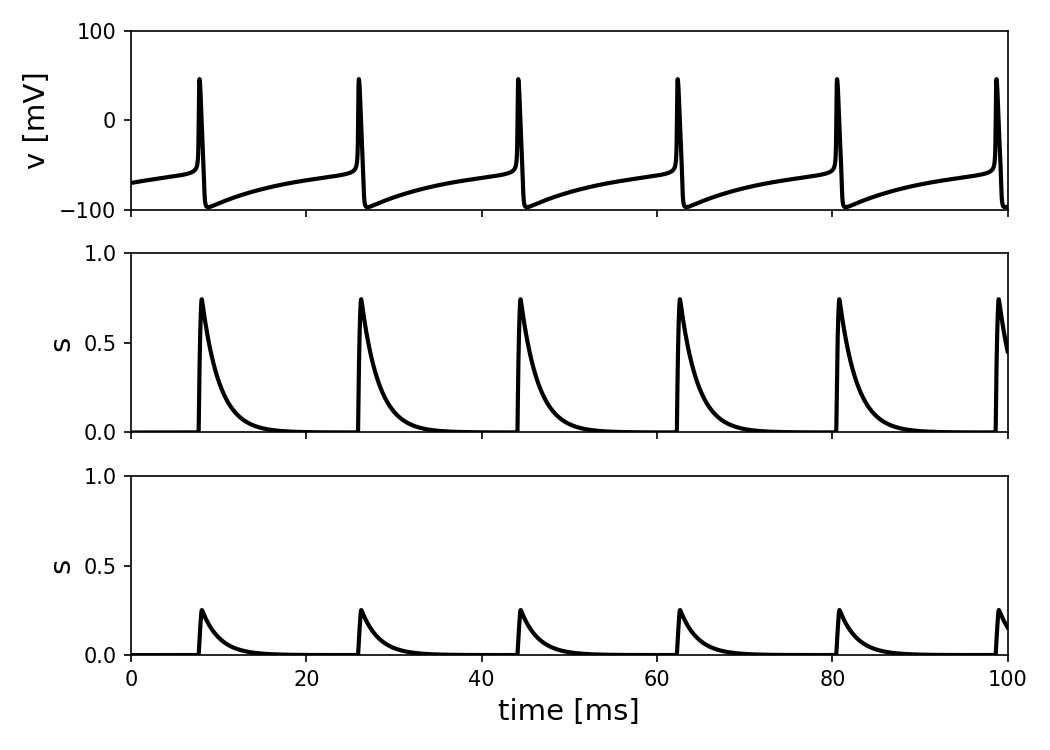
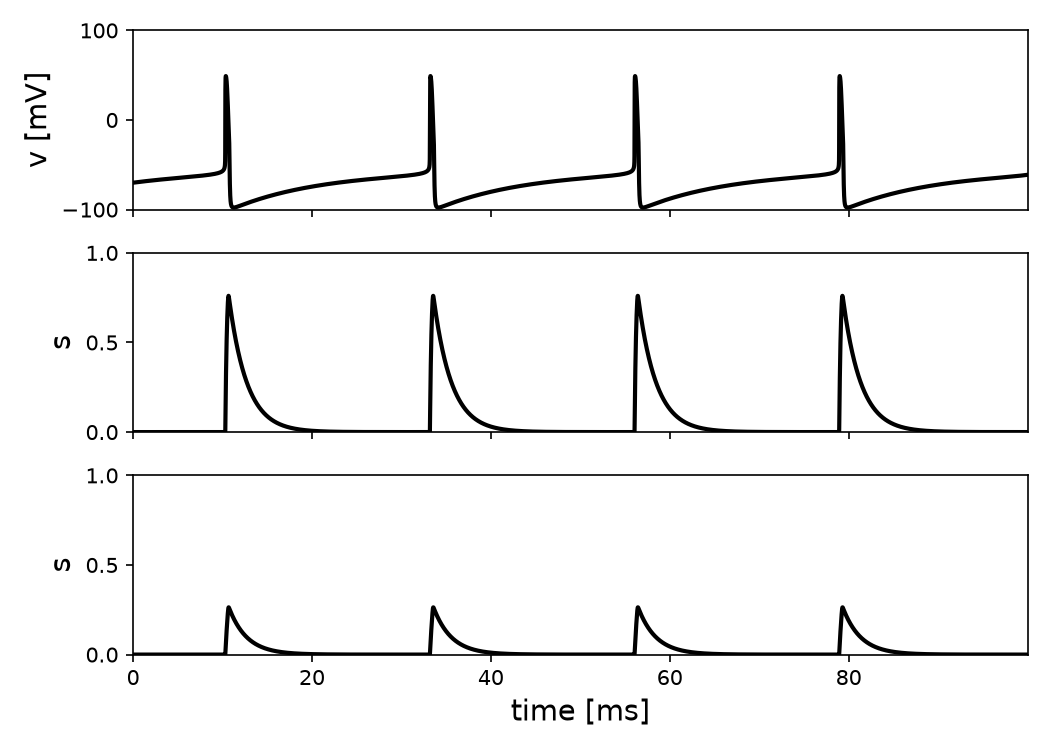
Fix ch20 RTM+synapse bugs and finish 4/6 brian sub-examples
Fixes the same recurring RTM bug (m integrated as a full gating ODE
instead of held at instantaneous equilibrium m_inf(v)) across all 6
ch20 Python ports and the existing brian/chapter20.ipynb. Also fixes:

- RTM_PLOT_S: i_ext was 1.5 uA vs MATLAB's 1 uA.
- brian notebook: two cells both defined a function named
  simulate_RTM_neuron, so calling the "20.1" version by name after the
  whole notebook had run actually invoked the "20.2" version with
  mismatched positional args -- renamed to simulate_RTM_neuron_s and
  simulate_RTM_neuron_q_s to make each independently callable/testable.
- brian notebook: StateMonitor(..., record=[0, 1]) on a single-neuron
  group (only index 0 exists) -- changed to record=True.
- brian notebook: tau_d=100ms in one RTM_PLOT_S_TWO_VARIABLES call
  should have been 300ms to match MATLAB.

Verified RTM_PLOT_S, RTM_PLOT_S_TWO_VARIABLES, S_BUILDUP and
S_SLOW_BUILDUP against MATLAB on both sides. RTM_PLOT_Q and
RTM_PLOT_S_PRESCRIBE_TAU_PEAK are still open on the brian side.

diff --git a/python/20_Chemical_Synapses/RTM_PLOT_Q/main.py b/python/20_Chemical_Synapses/RTM_PLOT_Q/main.py
@@ -44,27 +44,27 @@ def derivative(x0, t):
     '''
     define Traub Model
     '''
-    v, m, n, h, q, s = x0
+    v, n, h, q, s = x0
+
+    m = m_inf(v)
 
     dv = i_ext - g_na * h * m ** 3 * \
         (v - v_na) - g_k * n ** 4 * (v - v_k) - g_l * (v - v_l)
-    dm = alpha_m(v) * (1.0 - m) - beta_m(v) * m
     dn = alpha_n(v) * (1.0 - n) - beta_n(v) * n
     dh = alpha_h(v) * (1.0 - h) - beta_h(v) * h
     dq = 0.5 * (1.0+np.tanh(0.1 * v)) * (1-q)/tau_r - q/tau_d
     ds = q * (1.0 - s) / tau_r - s / tau_d
     
 
-    return [dv, dm, dn, dh, dq, ds]
+    return [dv, dn, dh, dq, ds]
 
 
 def initial_condition(v):
-    m = m_inf(v)
     h = h_inf(v)
     n = n_inf(v)
     s = 0.0
     q = 0.0
-    return [v, m, n, h, q, s]
+    return [v, n, h, q, s]
 
 c = 1
 g_k = 80.0
@@ -86,8 +86,8 @@ if __name__ == "__main__":
     t = np.arange(0, t_final, dt)
     sol = odeint(derivative, x0, t)
     V = sol[:, 0]
-    Q = sol[:, 4]
-    S = sol[:, 5]
+    Q = sol[:, 3]
+    S = sol[:, 4]
 
 
     fig, ax = pl.subplots(2, figsize=(7, 5), sharex=True)

diff --git a/tests/test_ch20_brian_rtm_plot_s_two_variables.py b/tests/test_ch20_brian_rtm_plot_s_two_variables.py
@@ -1,0 +1,20 @@
+from pathlib import Path
+
+from matlab_ref import load_notebook_as_module, run_matlab_script, trace_rmse
+
+ROOT = Path(__file__).resolve().parents[1]
+
+
+def test_rtm_plot_s_two_variables_matches_matlab():
+    ns = load_notebook_as_module(ROOT / "brian" / "chapter20.ipynb")
+    sm = ns.simulate_RTM_neuron_q_s(0.12 * ns.b2.uA, tau_r=100 * ns.b2.ms, tau_d=300 * ns.b2.ms,
+                                     tau_d_q=100 * ns.b2.ms, simulation_time=2000 * ns.b2.ms)
+
+    ref = run_matlab_script(
+        ROOT / "matlab" / "20" / "RTM_PLOT_S_TWO_VARIABLES", "make_figure.m", ["t", "v", "s"]
+    )
+
+    rmse_v = trace_rmse(ref["t"], ref["v"], sm.t / ns.b2.ms, sm.vm[0] / ns.b2.mV)
+    rmse_s = trace_rmse(ref["t"], ref["s"], sm.t / ns.b2.ms, sm.s[0])
+    assert rmse_v < 1.0, f"v RMSE vs MATLAB too high: {rmse_v:.2f} mV"
+    assert rmse_s < 0.01, f"s RMSE vs MATLAB too high: {rmse_s:.4f}"

diff --git a/tests/test_ch20_brian_rtm_plot_s.py b/tests/test_ch20_brian_rtm_plot_s.py
@@ -1,0 +1,20 @@
+from pathlib import Path
+
+from matlab_ref import load_notebook_as_module, run_matlab_script, trace_rmse
+
+ROOT = Path(__file__).resolve().parents[1]
+
+
+def test_rtm_plot_s_matches_matlab():
+    """make_figure.m runs tau_r=0.2 then tau_r=1, reusing the same s/v
+    arrays -- workspace at the end holds the tau_r=1 run.
+    """
+    ns = load_notebook_as_module(ROOT / "brian" / "chapter20.ipynb")
+    sm = ns.simulate_RTM_neuron_s(1.0 * ns.b2.uA, 1 * ns.b2.ms, 100 * ns.b2.ms)
+
+    ref = run_matlab_script(ROOT / "matlab" / "20" / "RTM_PLOT_S", "make_figure.m", ["t", "v", "s"])
+
+    rmse_v = trace_rmse(ref["t"], ref["v"], sm.t / ns.b2.ms, sm.vm[0] / ns.b2.mV)
+    rmse_s = trace_rmse(ref["t"], ref["s"], sm.t / ns.b2.ms, sm.s[0])
+    assert rmse_v < 2.0, f"v RMSE vs MATLAB too high: {rmse_v:.2f} mV"
+    assert rmse_s < 0.01, f"s RMSE vs MATLAB too high: {rmse_s:.4f}"

diff --git a/tests/test_ch20_brian_s_slow_buildup.py b/tests/test_ch20_brian_s_slow_buildup.py
@@ -1,0 +1,18 @@
+from pathlib import Path
+
+from matlab_ref import load_notebook_as_module, run_matlab_script, trace_rmse
+
+ROOT = Path(__file__).resolve().parents[1]
+
+
+def test_s_slow_buildup_matches_matlab():
+    ns = load_notebook_as_module(ROOT / "brian" / "chapter20.ipynb")
+    sm = ns.simulate_RTM_neuron_q_s(0.2 * ns.b2.uA, tau_r=100 * ns.b2.ms, tau_d=500 * ns.b2.ms,
+                                     tau_d_q=1 * ns.b2.ms, simulation_time=2000 * ns.b2.ms)
+
+    ref = run_matlab_script(ROOT / "matlab" / "20" / "S_SLOW_BUILDUP", "make_figure.m", ["t", "v", "s"])
+
+    rmse_v = trace_rmse(ref["t"], ref["v"], sm.t / ns.b2.ms, sm.vm[0] / ns.b2.mV)
+    rmse_s = trace_rmse(ref["t"], ref["s"], sm.t / ns.b2.ms, sm.s[0])
+    assert rmse_v < 3.5, f"v RMSE vs MATLAB too high: {rmse_v:.2f} mV"
+    assert rmse_s < 0.01, f"s RMSE vs MATLAB too high: {rmse_s:.4f}"

diff --git a/tests/test_ch20_rtm_plot_s.py b/tests/test_ch20_rtm_plot_s.py
@@ -1,0 +1,23 @@
+from pathlib import Path
+
+from scipy.integrate import odeint
+
+from matlab_ref import load_python_port, run_matlab_script, trace_rmse
+
+ROOT = Path(__file__).resolve().parents[1]
+
+
+def test_rtm_plot_s_matches_matlab():
+    py = load_python_port(ROOT / "python" / "20_Chemical_Synapses" / "RTM_PLOT_S" / "main.py")
+    py.tau_r, py.tau_d = 1.0, 2.0
+    t = py.np.arange(0, py.t_final, py.dt)
+    x0 = py.initial_condition(py.v)
+    sol = odeint(py.derivative, x0, t)
+    V, S = sol[:, 0], sol[:, -1]
+
+    ref = run_matlab_script(ROOT / "matlab" / "20" / "RTM_PLOT_S", "make_figure.m", ["t", "v", "s"])
+
+    rmse_v = trace_rmse(ref["t"], ref["v"], t, V)
+    rmse_s = trace_rmse(ref["t"], ref["s"], t, S)
+    assert rmse_v < 2.0, f"v RMSE vs MATLAB too high: {rmse_v:.2f} mV"
+    assert rmse_s < 0.01, f"s RMSE vs MATLAB too high: {rmse_s:.4f}"

diff --git a/tests/test_ch20_brian_s_buildup.py b/tests/test_ch20_brian_s_buildup.py
@@ -1,0 +1,18 @@
+from pathlib import Path
+
+from matlab_ref import load_notebook_as_module, run_matlab_script, trace_rmse
+
+ROOT = Path(__file__).resolve().parents[1]
+
+
+def test_s_buildup_matches_matlab():
+    ns = load_notebook_as_module(ROOT / "brian" / "chapter20.ipynb")
+    sm = ns.simulate_RTM_neuron_q_s(0.2 * ns.b2.uA, tau_r=10 * ns.b2.ms, tau_d=300 * ns.b2.ms,
+                                     tau_d_q=5 * ns.b2.ms, simulation_time=2000 * ns.b2.ms)
+
+    ref = run_matlab_script(ROOT / "matlab" / "20" / "S_BUILDUP", "make_figure.m", ["t", "v", "s"])
+
+    rmse_v = trace_rmse(ref["t"], ref["v"], sm.t / ns.b2.ms, sm.vm[0] / ns.b2.mV)
+    rmse_s = trace_rmse(ref["t"], ref["s"], sm.t / ns.b2.ms, sm.s[0])
+    assert rmse_v < 3.5, f"v RMSE vs MATLAB too high: {rmse_v:.2f} mV"
+    assert rmse_s < 0.01, f"s RMSE vs MATLAB too high: {rmse_s:.4f}"

diff --git a/python/20_Chemical_Synapses/RTM_PLOT_S/main.py b/python/20_Chemical_Synapses/RTM_PLOT_S/main.py
@@ -44,23 +44,23 @@ def derivative(x0, t):
     '''
     define Traub Model
     '''
-    v, m, n, h, s = x0
+    v, n, h, s = x0
+
+    m = m_inf(v)
     dv = i_ext - g_na * h * m ** 3 * \
         (v - v_na) - g_k * n ** 4 * (v - v_k) - g_l * (v - v_l)
-    dm = alpha_m(v) * (1.0 - m) - beta_m(v) * m
     dn = alpha_n(v) * (1.0 - n) - beta_n(v) * n
     dh = alpha_h(v) * (1.0 - h) - beta_h(v) * h
     ds = 0.5 * (1.0+np.tanh(0.1 * v)) * (1-s)/tau_r - s/tau_d
 
-    return [dv, dm, dn, dh, ds]
+    return [dv, dn, dh, ds]
 
 
 def initial_condition(v):
-    m = m_inf(v)
     h = h_inf(v)
     n = n_inf(v)
     s = 0.0
-    return [v, m, n, h, s]
+    return [v, n, h, s]
 
 c = 1
 g_k = 80.0
@@ -69,7 +69,7 @@ g_l = 0.1
 v_k = -100.0
 v_na = 50.0
 v_l = -67.0
-i_ext = 1.5
+i_ext = 1.0
 t_final = 100.0
 dt = 0.01
 v = -70.0

diff --git a/python/20_Chemical_Synapses/RTM_PLOT_S_PRESCRIBE_TAU_PEAK/main.py b/python/20_Chemical_Synapses/RTM_PLOT_S_PRESCRIBE_TAU_PEAK/main.py
@@ -45,25 +45,25 @@ def derivative(x0, t):
     '''
     define Traub Model
     '''
-    v, m, n, h, q, s = x0
+    v, n, h, q, s = x0
+
+    m = m_inf(v)
     dv = i_ext - g_na * h * m ** 3 * \
         (v - v_na) - g_k * n ** 4 * (v - v_k) - g_l * (v - v_l)
-    dm = alpha_m(v) * (1.0 - m) - beta_m(v) * m
     dn = alpha_n(v) * (1.0 - n) - beta_n(v) * n
     dh = alpha_h(v) * (1.0 - h) - beta_h(v) * h
     dq = 0.5 * (1.0 + np.tanh(0.1 * v)) * (1 - q) * 10.0 - q / tau_d_q
     ds = q * (1 - s)/tau_r - s/tau_d
 
-    return [dv, dm, dn, dh, dq, ds]
+    return [dv, dn, dh, dq, ds]
 
 
 def initial_condition(v):
-    m = m_inf(v)
     h = h_inf(v)
     n = n_inf(v)
     q = 0.0
     s = 0.0
-    return [v, m, n, h, q, s]
+    return [v, n, h, q, s]
 
 
 def tau_peak_function(tau_d, tau_r, tau_d_q):

diff --git a/python/20_Chemical_Synapses/S_BUILDUP/main.py b/python/20_Chemical_Synapses/S_BUILDUP/main.py
@@ -44,25 +44,25 @@ def derivative(x0, t):
     '''
     define Traub Model
     '''
-    v, m, n, h, q, s = x0
+    v, n, h, q, s = x0
+
+    m = m_inf(v)
     dv = i_ext - g_na * h * m ** 3 * \
         (v - v_na) - g_k * n ** 4 * (v - v_k) - g_l * (v - v_l)
-    dm = alpha_m(v) * (1.0 - m) - beta_m(v) * m
     dn = alpha_n(v) * (1.0 - n) - beta_n(v) * n
     dh = alpha_h(v) * (1.0 - h) - beta_h(v) * h
     dq = 0.5 * (1.0 + np.tanh(0.1 * v)) * (1 - q) * 10.0 - q / tau_d_q
     ds = q * (1 - s)/tau_r - s/tau_d
 
-    return [dv, dm, dn, dh, dq, ds]
+    return [dv, dn, dh, dq, ds]
 
 
 def initial_condition(v):
-    m = m_inf(v)
     h = h_inf(v)
     n = n_inf(v)
     q = 0.0
     s = 0.0
-    return [v, m, n, h, q, s]
+    return [v, n, h, q, s]
 
 
 def tau_peak_function(tau_d, tau_r, tau_d_q):

diff --git a/python/20_Chemical_Synapses/S_SLOW_BUILDUP/main.py b/python/20_Chemical_Synapses/S_SLOW_BUILDUP/main.py
@@ -44,25 +44,25 @@ def derivative(x0, t):
     '''
     define Traub Model
     '''
-    v, m, n, h, q, s = x0
+    v, n, h, q, s = x0
+
+    m = m_inf(v)
     dv = i_ext - g_na * h * m ** 3 * \
         (v - v_na) - g_k * n ** 4 * (v - v_k) - g_l * (v - v_l)
-    dm = alpha_m(v) * (1.0 - m) - beta_m(v) * m
     dn = alpha_n(v) * (1.0 - n) - beta_n(v) * n
     dh = alpha_h(v) * (1.0 - h) - beta_h(v) * h
     dq = 0.5 * (1.0 + np.tanh(0.1 * v)) * (1 - q) * 10.0 - q / tau_d_q
     ds = q * (1 - s)/tau_r - s/tau_d
 
-    return [dv, dm, dn, dh, dq, ds]
+    return [dv, dn, dh, dq, ds]
 
 
 def initial_condition(v):
-    m = m_inf(v)
     h = h_inf(v)
     n = n_inf(v)
     q = 0.0
     s = 0.0
-    return [v, m, n, h, q, s]
+    return [v, n, h, q, s]
 
 
 def tau_peak_function(tau_d, tau_r, tau_d_q):

diff --git a/python/20_Chemical_Synapses/RTM_PLOT_S_TWO_VARIABLES/main.py b/python/20_Chemical_Synapses/RTM_PLOT_S_TWO_VARIABLES/main.py
@@ -44,25 +44,25 @@ def derivative(x0, t):
     '''
     define Traub Model
     '''
-    v, m, n, h, q, s = x0
+    v, n, h, q, s = x0
+
+    m = m_inf(v)
     dv = i_ext - g_na * h * m ** 3 * \
         (v - v_na) - g_k * n ** 4 * (v - v_k) - g_l * (v - v_l)
-    dm = alpha_m(v) * (1.0 - m) - beta_m(v) * m
     dn = alpha_n(v) * (1.0 - n) - beta_n(v) * n
     dh = alpha_h(v) * (1.0 - h) - beta_h(v) * h
     dq = 0.5 * (1.0+np.tanh(0.1 * v)) * (1 - q) * 10.0 - q / tau_d_q
     ds = q * (1 - s)/tau_r - s/tau_d
 
-    return [dv, dm, dn, dh, dq, ds]
+    return [dv, dn, dh, dq, ds]
 
 
 def initial_condition(v):
-    m = m_inf(v)
     h = h_inf(v)
     n = n_inf(v)
     q = 0.0
     s = 0.0
-    return [v, m, n, h, q, s]
+    return [v, n, h, q, s]
 
 c = 1.0
 g_k = 80.0

diff --git a/PROGRESS.md b/PROGRESS.md
@@ -4,7 +4,7 @@ Unit of tracking is the MATLAB sub-example (one leaf folder = one figure/script)
 Process order: chapter number ascending, then sub-example name within a chapter.
 
 - [x] done and verified (visual + numeric vs MATLAB)
-**Totals: python 147/256 (57%). brian 21/256 (8%, +80 n/a).**
+**Totals: python 147/256 (57%). brian 25/256 (10%, +80 n/a).**
 
 - [ ] not done
 - n/a: sub-example is a static plot, or its point is dynamical-systems analysis (bifurcation diagrams, phase planes with nullclines, F-I curves, bistability regions, ...) rather than "run this neuron/network" -- even where it calls odeint internally, Brian2 adds nothing over the existing Python port for these
@@ -201,12 +201,12 @@ Process order: chapter number ascending, then sub-example name within a chapter.
 |---|---|---|
 | B_JAHR_STEVENS | [x] | [ ] |
 | RTM_PLOT_Q | [x] | [ ] |
-| RTM_PLOT_S | [x] | [ ] |
+| RTM_PLOT_S | [x] | [x] |
 | RTM_PLOT_S_PRESCRIBE_TAU_PEAK | [x] | [ ] |
-| RTM_PLOT_S_TWO_VARIABLES | [x] | [ ] |
+| RTM_PLOT_S_TWO_VARIABLES | [x] | [x] |
 | RTM_WITH_AUTAPSE_F_I_CURVE | [x] | [ ] |
-| S_BUILDUP | [x] | [ ] |
-| S_SLOW_BUILDUP | [x] | [ ] |
+| S_BUILDUP | [x] | [x] |
+| S_SLOW_BUILDUP | [x] | [x] |
 
 ## Chapter 21 - Gap Junctions
 
